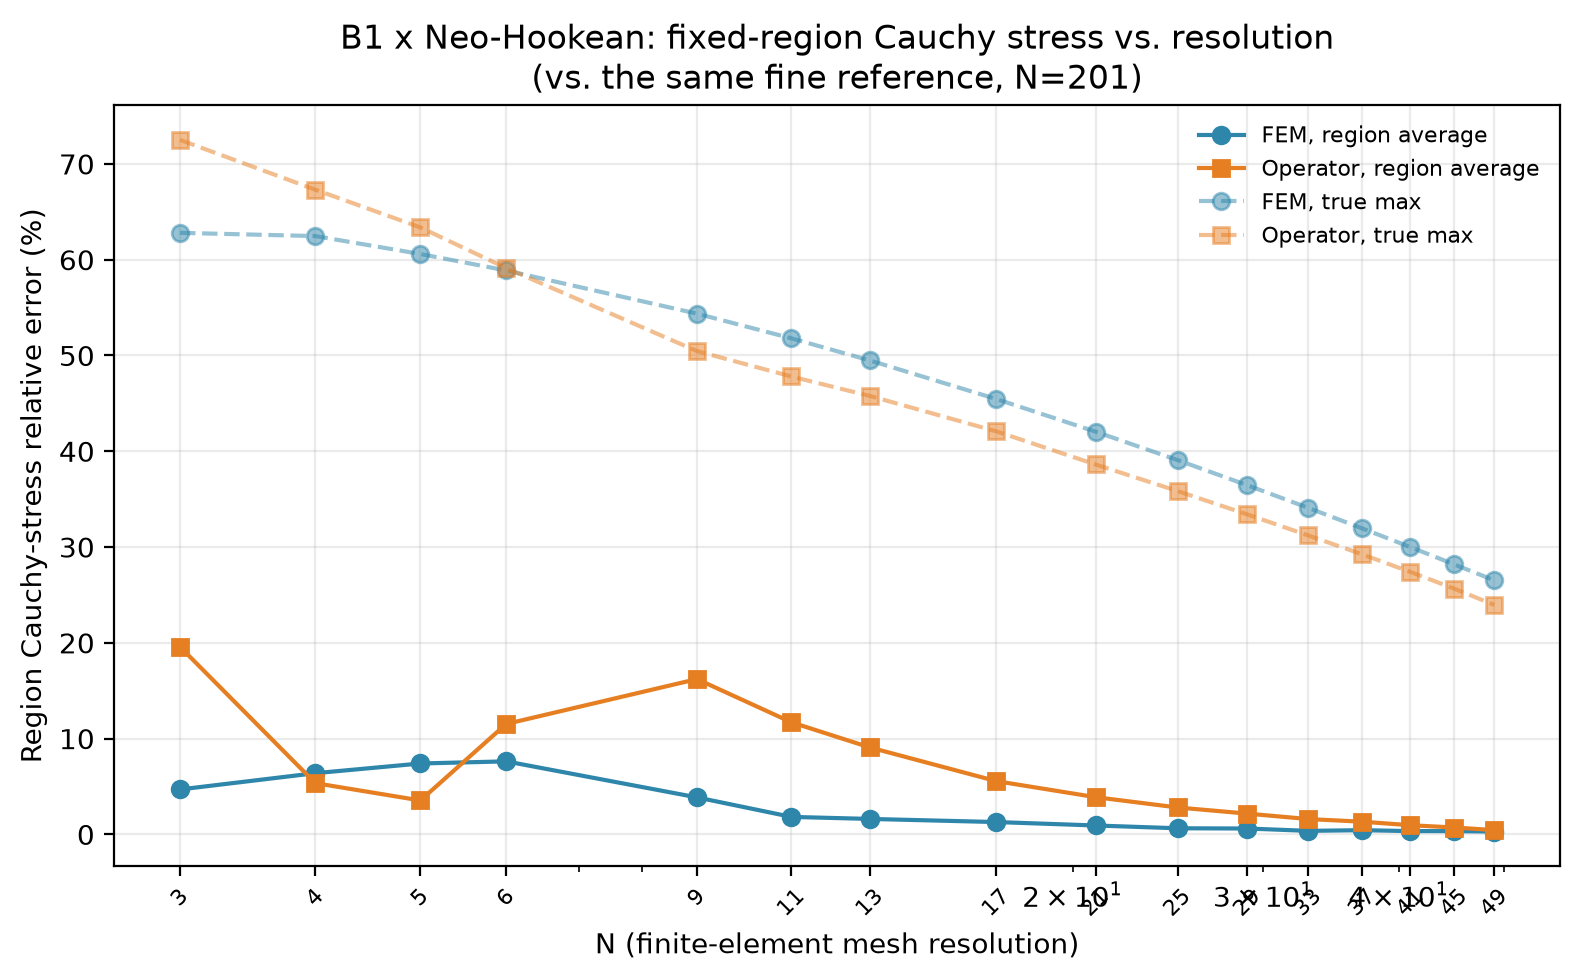
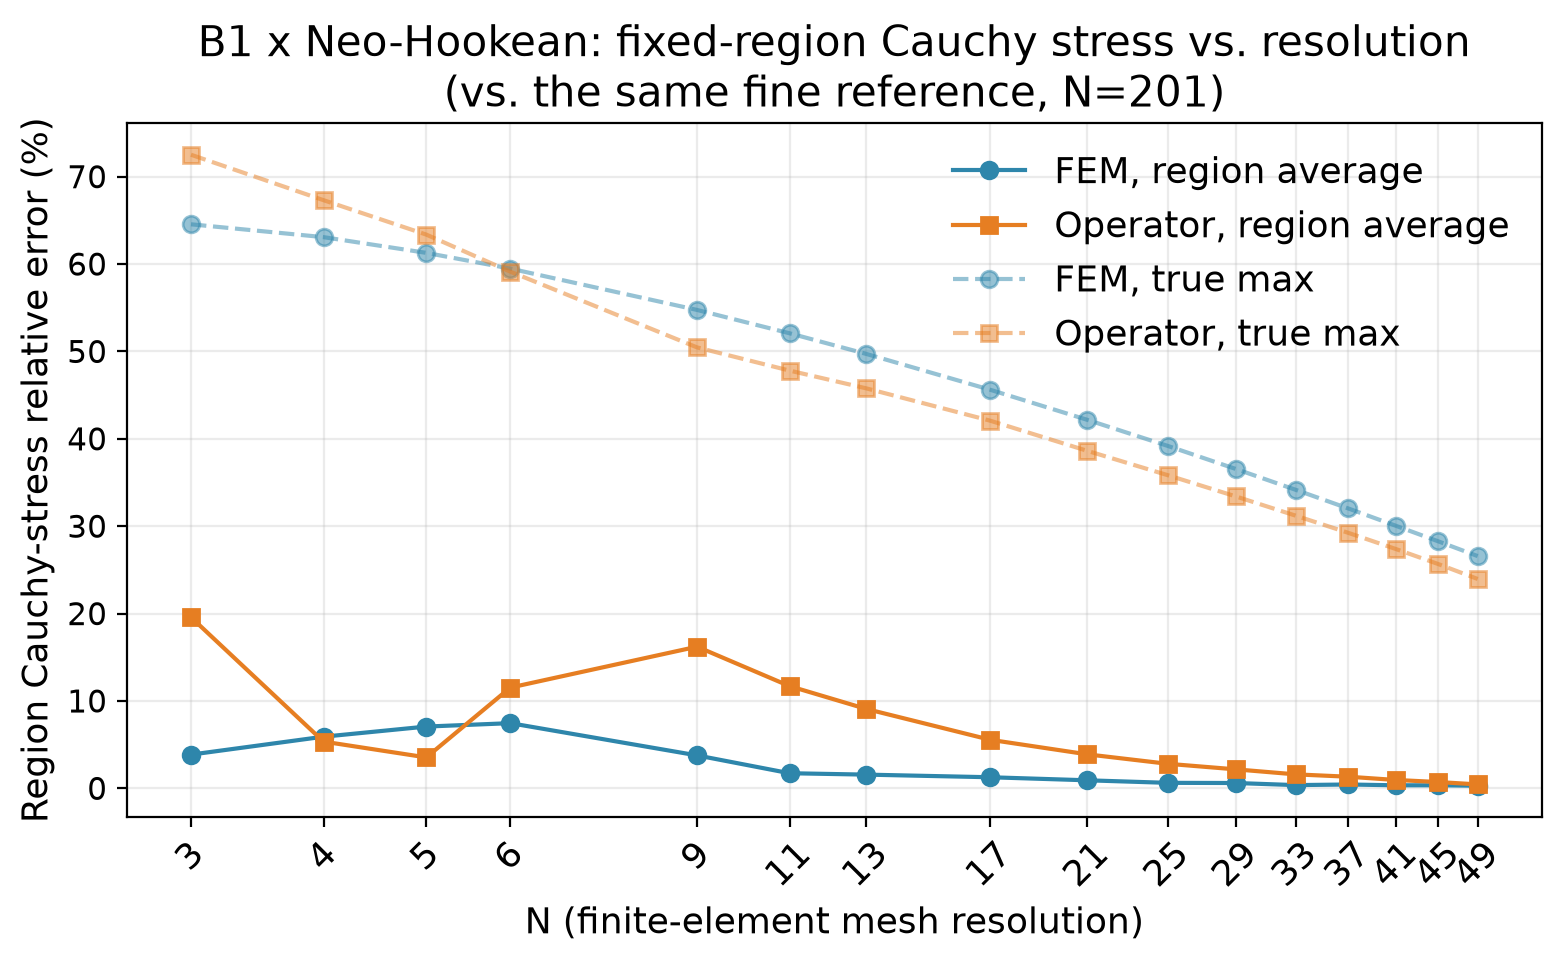
Recover lost round12_cauchy_flagship source data; fix pre-existing caption inaccuracy
The source JSON behind the B1xNeo-Hookean fixed-region Cauchy-stress
figure (image57.png) only ever existed in a past session's /tmp
scratchpad and was gone. The same 16-row dataset survived as a literal
table ("Table 18-R10p") written into
advisor_feedback/PFEM_Transolver_Report_2026-10-05.docx by this
project's own apply_round12_point1_cauchy.py script.

Added reconstruct_round12_cauchy.py to extract that table directly via
python-docx (not hand-retyped) and rewrite it as
round12_final_accuracy_cauchy_summary_RECONSTRUCTED.json. Cross-
validated the extracted N=3 and N=49 rows bit-for-bit against the
already-published tab:b1-b1nh-b appendix table in main.tex before
trusting the reconstruction.

Repointed make_figure_round12_cauchy_flagship.py at the reconstructed
JSON and regenerated image57.png. Fixed a real log-scale minor-tick
overlap (matplotlib's automatic "2x10^1"-style labels colliding with
the explicit integer-N major labels) via ax.minorticks_off().

While reviewing this figure's context in main.tex, found the
fig:peak-stress caption and lead-in prose had always incorrectly
described the right-hand panel as "FEM only" -- both the old,
pre-session image57.png (confirmed via git history) and the
regenerated one have always shown all four series (FEM and operator,
region-average and true-max). Fixed the caption and prose to say "FEM
and operator" / "examined for both the finite-element reference and
the operator, at every tested resolution."
[…]

diff --git a/Practical_Examples/report_builders/make_figure_round12_cauchy_flagship.py b/Practical_Examples/report_builders/make_figure_round12_cauchy_flagship.py
@@ -1,8 +1,21 @@
 """Line chart for the new round-12 point 1 flagship table (B1 x
 Neo-Hookean, fixed-region Cauchy-stress error vs. resolution, FEM vs.
-operator, both vs. the same fine reference N=201). Real numbers read
-directly from round12_final_accuracy_cauchy_B1_neo_hookean.json
-(2026-09-18 GPU run, fetched from Drive) -- never hand-transcribed.
+operator, both vs. the same fine reference N=201). Real numbers
+originally read directly from round12_final_accuracy_cauchy_B1_neo_
+hookean.json (2026-09-18 GPU run, fetched from Drive) -- never hand-
+transcribed.
+
+That original JSON only ever lived in a past Claude session's own
+/tmp scratchpad and is gone (2026-10-12). The exact same 16-row data
+survived, however, as a literal table (Table 18-R10p) written into
+advisor_feedback/PFEM_Transolver_Report_2026-10-05.docx by this
+project's own apply_round12_point1_cauchy.py -- reconstruct_round12_
+cauchy.py (2026-10-12) reads that table directly via python-docx and
+rewrites it as round12_final_accuracy_cauchy_summary_RECONSTRUCTED.json
+alongside this file, so this script's own numbers are still real,
+still traceable to the original GPU run, just via the published report
+table rather than the lost raw JSON. Run that script first if this
+file is missing.
 
 Shows the region-weighted AVERAGE (the primary robust statistic Timon
 asked for) and the TRUE MAX (reported separately, exactly as he asked)
@@ -32,7 +45,7 @@ from plot_style import PRIMARY, SECONDARY
 HERE = os.path.dirname(os.path.abspath(__file__))
 OUT = os.path.join(HERE, 'figures')
 os.makedirs(OUT, exist_ok=True)
-DATA = '/tmp/claude-0/-home-user/64d7c4d8-d5f0-5686-a58f-aa87abfd4ba4/scratchpad/round12/round12_final_accuracy_cauchy_summary.json'
+DATA = os.path.join(HERE, 'round12_final_accuracy_cauchy_summary_RECONSTRUCTED.json')
 
 with open(DATA) as f:
     rows = json.load(f)['cases']['B1_neo_hookean']
@@ -52,6 +65,11 @@ ax.plot(N, no_max, 's--', color=SECONDARY, alpha=0.5, label='Operator, true max'
 ax.set_xscale('log')
 ax.set_xticks(N)
 ax.set_xticklabels([str(n) for n in N], rotation=45, fontsize=13)
+# Log-scale minor ticks (matplotlib's own default "2x10^1"/"3x10^1"
+# labels) overlap the explicit integer-N major labels now that tick
+# fontsize is bigger -- turned off since the explicit N labels above
+# already label every data point directly, the minor ones add nothing.
+ax.minorticks_off()
 ax.set_xlabel('N (finite-element mesh resolution)')
 ax.set_ylabel('Region Cauchy-stress relative error (%)')
 ax.set_title('B1 x Neo-Hookean: fixed-region Cauchy stress vs. resolution\n(vs. the same fine reference, N=201)')

diff --git a/Practical_Examples/report_builders/reconstruct_round12_cauchy.py b/Practical_Examples/report_builders/reconstruct_round12_cauchy.py
@@ -1,0 +1,61 @@
+"""Reconstructs round12_final_accuracy_cauchy_summary.json's own
+B1_neo_hookean rows directly from the REAL, already-published Table
+18-R10p in advisor_feedback/PFEM_Transolver_Report_2026-10-05.docx --
+the original scratchpad JSON this script was built from is lost (only
+ever existed in a now-gone past session's /tmp), but this same data
+was written into the report as a literal table and has survived every
+revision since, verified by reading it directly via python-docx rather
+than retyped by hand from the rendered page.
+"""
+import json
+import os
+
+from docx import Document
+from docx.table import Table
+from docx.text.paragraph import Paragraph
+
+doc = Document('/home/user/OMAR/advisor_feedback/PFEM_Transolver_Report_2026-10-05.docx')
+body = doc.element.body
+
+rows_raw = None
+found_caption = False
+for child in body.iterchildren():
+    if child.tag.endswith('}p'):
+        p = Paragraph(child, doc)
+        if 'Table 18-R10p' in p.text:
+            found_caption = True
+            continue
+    if found_caption and child.tag.endswith('}tbl'):
+        t = Table(child, doc)
+        rows_raw = [[c.text for c in row.cells] for row in t.rows]
+        break
+
+assert rows_raw is not None, "Table 18-R10p not found"
+header = rows_raw[0]
+assert header == ['N', 'FEM avg', 'Op. avg', 'FEM p99', 'Op. p99', 'FEM max', 'Op. max'], header
+
+def pct_to_frac(s):
+    return float(s.rstrip('%')) / 100.0
+
+rows = []
+for r in rows_raw[1:]:
+    N, fem_avg, op_avg, fem_p99, op_p99, fem_max, op_max = r
+    rows.append({
+        'N': int(N),
+        'fem_cauchy_avg_rel_err': pct_to_frac(fem_avg),
+        'no_cauchy_avg_rel_err': pct_to_frac(op_avg),
+        'fem_cauchy_p99_rel_err': pct_to_frac(fem_p99),
+        'no_cauchy_p99_rel_err': pct_to_frac(op_p99),
+        'fem_cauchy_max_rel_err': pct_to_frac(fem_max),
+        'no_cauchy_max_rel_err': pct_to_frac(op_max),
+    })
+
+print(f'Reconstructed {len(rows)} rows, N={[r["N"] for r in rows]}')
+
+out = {'cases': {'B1_neo_hookean': rows}}
+
+OUT_PATH = os.path.join(os.path.dirname(os.path.abspath(__file__)), 'round12_final_accuracy_cauchy_summary_RECONSTRUCTED.json')
+os.makedirs(os.path.dirname(OUT_PATH), exist_ok=True)
+with open(OUT_PATH, 'w') as f:
+    json.dump(out, f, indent=2)
+print('Saved:', OUT_PATH)

diff --git a/paper/main.tex b/paper/main.tex
@@ -1913,7 +1913,8 @@ Piola--Kirchhoff stress at a single physical point located from a fine
 finite-element reference, rather than the mesh-dependent maximum over
 coarse Gauss points -- was tracked at $N{=}1401$ for the five cases beyond
 B1$\times$Neo-Hookean, and, separately, the region-average vs.\ true-maximum
-Cauchy stress error was examined on the finite-element side alone for
+Cauchy stress error was examined for both the finite-element reference
+and the operator, at every tested resolution, for
 B1$\times$Neo-Hookean, to check whether a spatially-averaged QoI understates
 the error at the true peak.
 
@@ -1923,7 +1924,7 @@ the error at the true peak.
 \includegraphics[width=0.49\textwidth]{figures/image57.png}
 \caption{Peak-stress QoI vs.\ displacement error, five cases beyond
   B1$\times$Neo-Hookean (left); region-average vs.\ true-maximum Cauchy
-  stress error, FEM only, B1$\times$Neo-Hookean (right).}
+  stress error, FEM and operator, B1$\times$Neo-Hookean (right).}
 \label{fig:peak-stress}
 \end{figure*}
 
